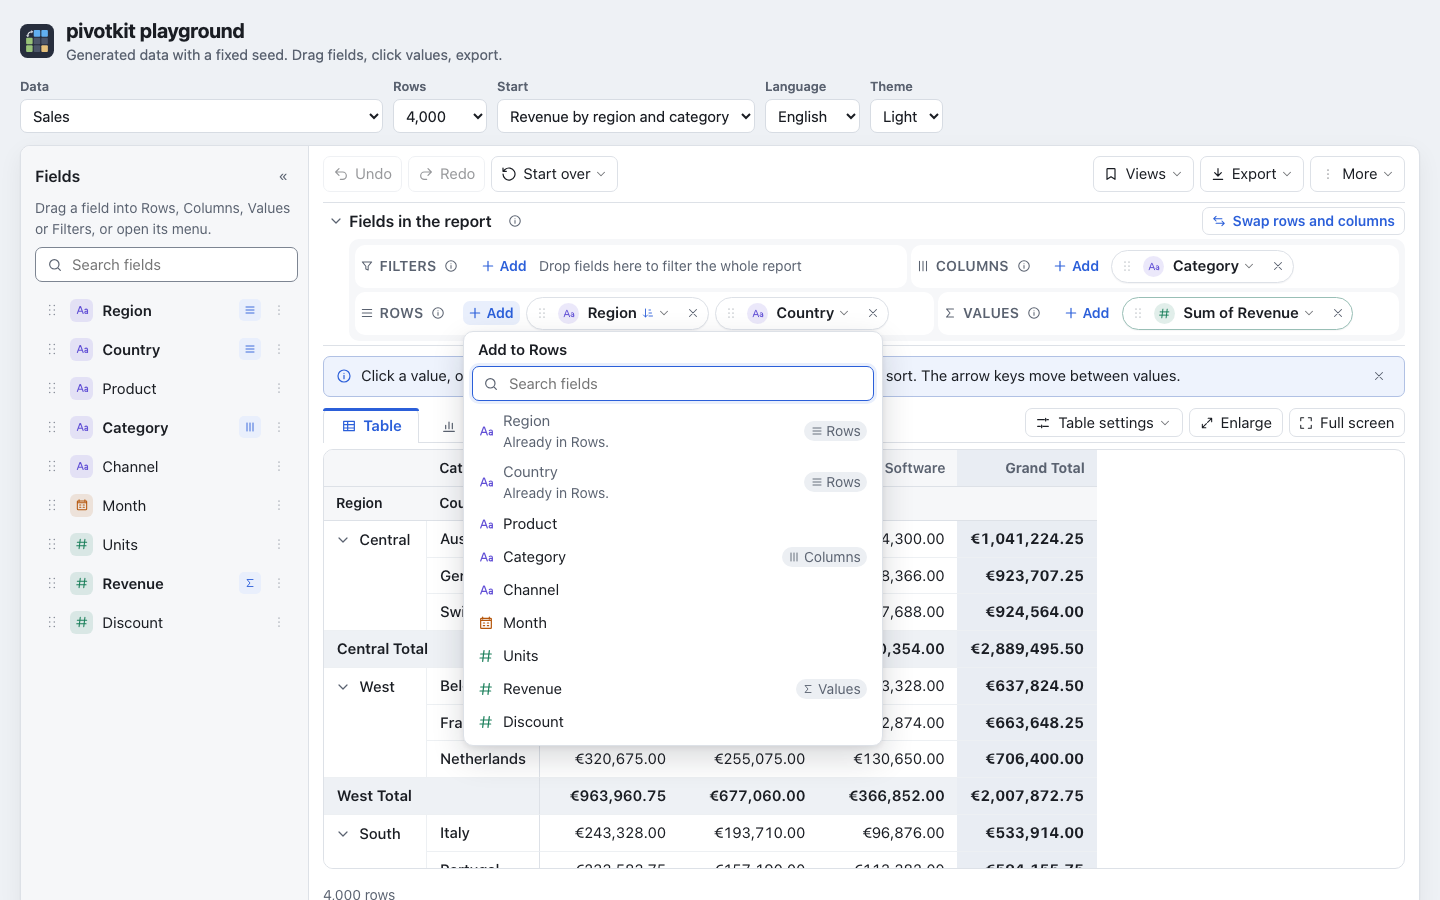
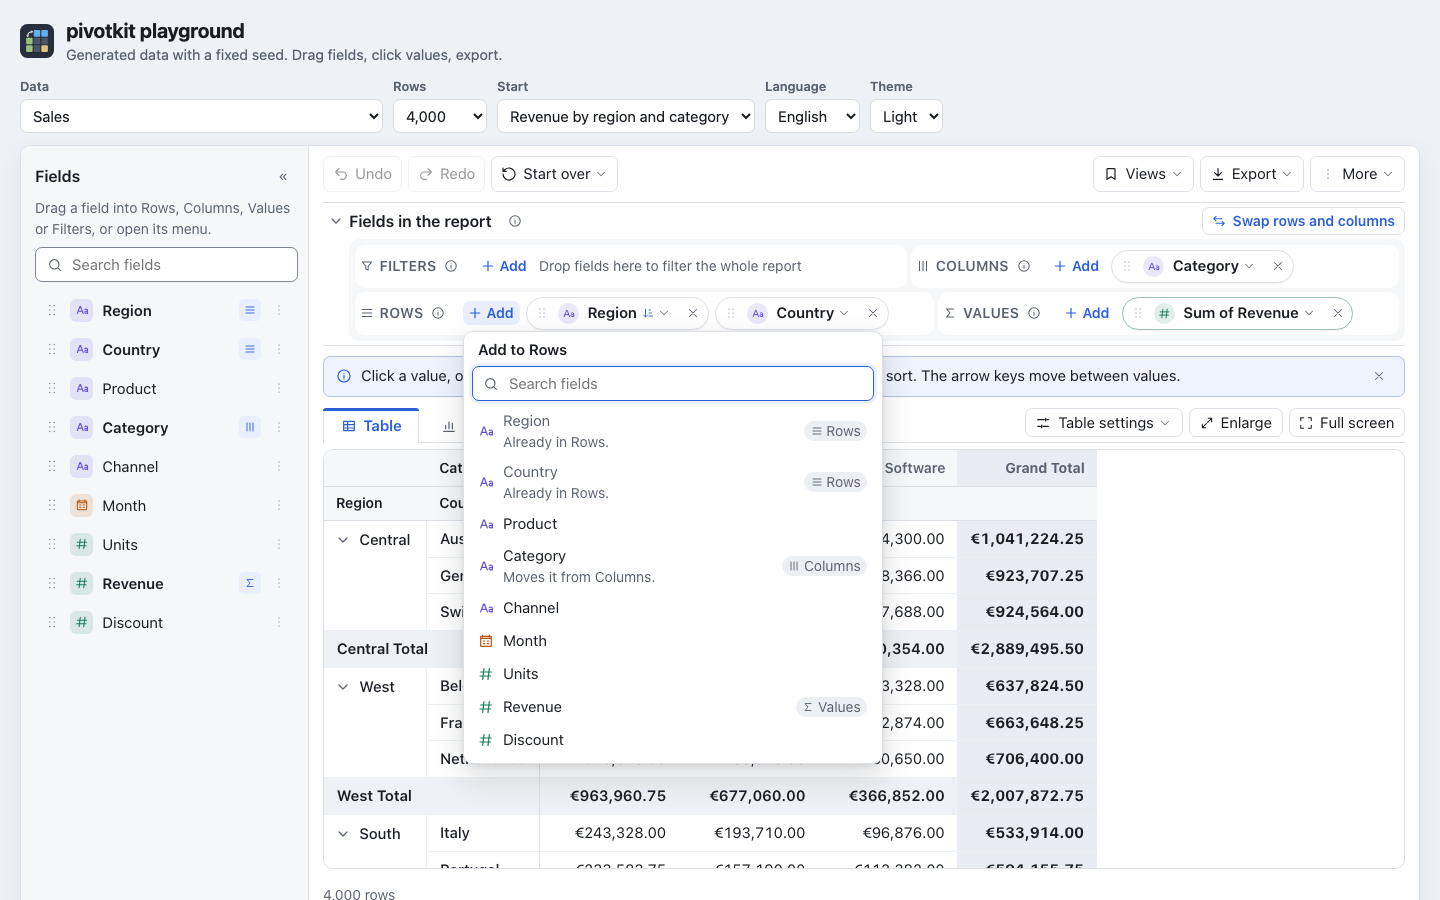
docs(react): + Add in Filters, its notes, and what a screen reader hears

Changed region(s): [[0.3125, 0.5911, 0.625, 0.8711], [0.5625, 0.5911, 0.5938, 0.6533]]

diff --git a/docs/use/fields.md b/docs/use/fields.md
@@ -53,12 +53,12 @@ All four give the same result. Details:
 - **+ Add** works on a phone too, where the field list is a drawer. Its menu:
     - is titled for its zone, for example **Add to Rows**
     - finds a field as the field list's search does
-    - marks a field that is placed already with its zone, for example "Columns". Picking it moves the
-      field, and a screen reader hears "Category moved from Columns to Rows". A field in Values
-      stays there as well.
+    - marks a field that is placed already with its zone, for example "Columns". The line under it
+      says "Moves it from Columns.", and after the pick a screen reader hears "Category moved from
+      Columns to Rows". A field in Values stays there as well.
+    - says "Adds a second value of it." under a field that is in Values already, in Values' menu
     - shows a field that is in this zone already as unavailable, with its reason ("Already in Rows").
       A date counts as the grouping it would get.
-    - in Values, adds a field that is there already as a second value
     - in Filters, opens the field's filter first. **Apply** places it, **Cancel** and **Back** return
       to the list.
     - puts the focus on the new chip after a pick, so its menu is one Enter away

diff --git a/docs/use/filters.md b/docs/use/filters.md
@@ -120,6 +120,9 @@ field already in Filters, **Add to Filters** opens its filter there. In Filters,
 it to Rows or Columns later, the field keeps its filter. Its chip opens the whole Filter level. When
 you drag a field into Filters, it lands there at once, with every item kept.
 
+**+ Add** next to the title **Filters** works the same way. A pick opens the field's filter inside
+its menu: **Apply** places the field, **Cancel** and **Back** return to the list of fields.
+
 ![The filter of Product opened from Add to Filters in the field list: its values with row counts, a search, Select all and Select none, a condition on the names, Cancel and Apply](../assets/screenshots/add-to-filters-light.png#only-light)
 ![The filter of Product opened from Add to Filters in the field list: its values with row counts, a search, Select all and Select none, a condition on the names, Cancel and Apply](../assets/screenshots/add-to-filters-dark.png#only-dark)
 

diff --git a/docs/use/behaviour.md b/docs/use/behaviour.md
@@ -37,7 +37,8 @@ over and More work the same way.
 Notes such as "Undone: Region removed", "View “Sales” saved" or "Exported pivot.xlsx" appear at the
 bottom right of the part of the report you see. That is under the table, or at the bottom of the
 window when the report reaches below it. A screen reader hears them. Adding a field shows no note,
-because the new chip already shows it.
+because the new chip already shows it. After **+ Add**, a screen reader still hears what happened:
+"Country added to Rows" or "Category moved from Columns to Rows".
 
 | Kind | Example | Stays |
 | --- | --- | --- |
